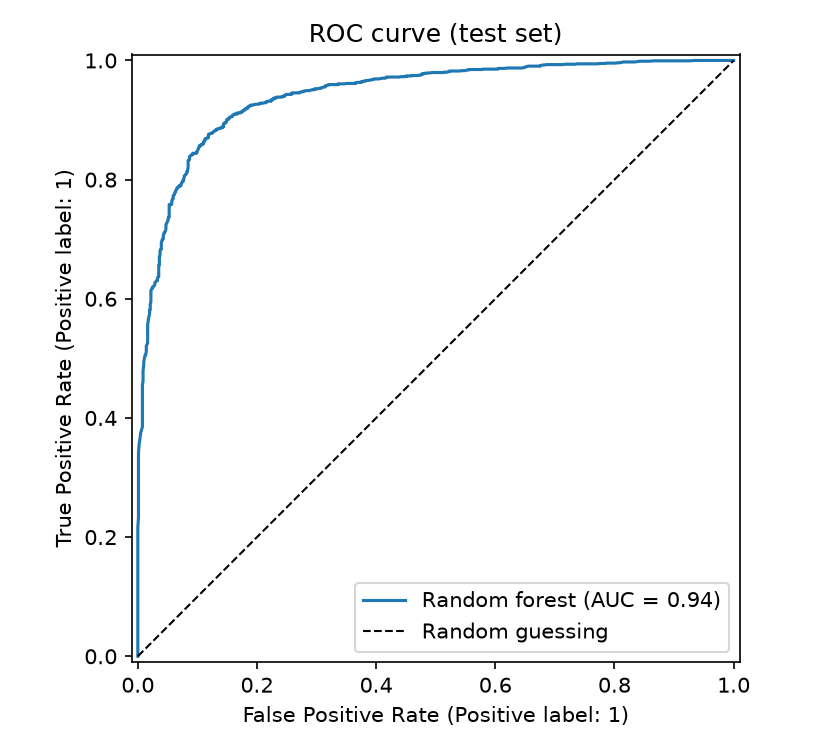
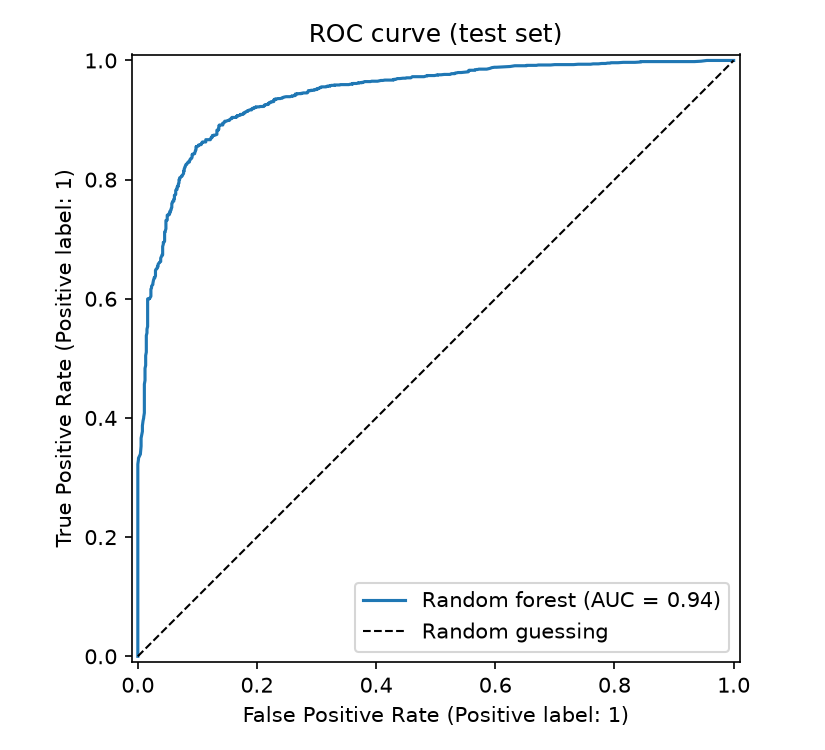
Adopt class_weight=balanced in the main model
On the scaffold split, class_weight=balanced lifts inactive recall from
62.4% to 72.6% and balanced accuracy from 75.7% to 79.0%, costing 3.7
points of active recall. ROC-AUC is unchanged (0.868 vs 0.866), so the
gain comes from a better decision threshold, not better ranking.

Applied to the main random-split model: inactive recall 80.8% -> 84.6%,
active recall 92.5% -> 89.9%, accuracy 88.2% -> 88.0%, ROC-AUC 0.943 ->
0.941. Figures and drug predictions regenerated; all 9 drug calls still
correct.

diff --git a/scripts/experiment_class_weight.py b/scripts/experiment_class_weight.py
@@ -1,0 +1,111 @@
+"""Experiment: does class_weight="balanced" fix the weak inactive recall?
+
+The scaffold-split model catches only ~62% of inactive molecules, because
+it saw far more actives during training. class_weight="balanced" makes
+each inactive count proportionally more when fitting, which should trade
+some active recall for inactive recall.
+
+Judged on the scaffold-split test set, the honest one: both models use
+the identical split saved by scripts/experiment_scaffold_split.py.
+
+Reads   data/egfr_fingerprints.npz, data/egfr_scaffold_split.csv
+        models/experiments/scaffold_split.joblib   (unweighted, for "before")
+Writes  models/experiments/scaffold_balanced.joblib
+        data/class_weight_comparison.csv
+
+Run from the project folder with:
+    uv run python scripts/experiment_class_weight.py
+"""
+
+from pathlib import Path
+
+import joblib
+import numpy as np
+import pandas as pd
+from sklearn.ensemble import RandomForestClassifier
+from sklearn.metrics import (
+    accuracy_score,
+    balanced_accuracy_score,
+    confusion_matrix,
+    recall_score,
+    roc_auc_score,
+)
+
+ROOT = Path(__file__).resolve().parent.parent
+FINGERPRINTS = ROOT / "data" / "egfr_fingerprints.npz"
+SCAFFOLD_SPLIT = ROOT / "data" / "egfr_scaffold_split.csv"
+PLAIN_MODEL = ROOT / "models" / "experiments" / "scaffold_split.joblib"
+BALANCED_MODEL = ROOT / "models" / "experiments" / "scaffold_balanced.joblib"
+OUTPUT = ROOT / "data" / "class_weight_comparison.csv"
+
+SEED, N_TREES = 42, 500
+
+
+def score(model, X, y) -> dict[str, float]:
+    predicted = model.predict(X)
+    return {
+        "accuracy": accuracy_score(y, predicted),
+        "roc_auc": roc_auc_score(y, model.predict_proba(X)[:, 1]),
+        "recall_active": recall_score(y, predicted, pos_label=1),
+        "recall_inactive": recall_score(y, predicted, pos_label=0),
+        # Mean of the two recalls: the fair summary when classes are uneven.
+        "balanced_accuracy": balanced_accuracy_score(y, predicted),
+    }
+
+
+def main() -> None:
+    data = np.load(FINGERPRINTS, allow_pickle=True)
+    X, y = data["X"], data["y"]
+    ids = pd.Series(data["molecule_chembl_id"])
+
+    split = pd.read_csv(SCAFFOLD_SPLIT).set_index("molecule_chembl_id")["set"]
+    assigned = ids.map(split).to_numpy()
+    train_mask, test_mask = assigned == "train", assigned == "test"
+    print(
+        f"Scaffold split: {train_mask.sum()} train "
+        f"({y[train_mask].mean():.1%} active), {test_mask.sum()} test "
+        f"({y[test_mask].mean():.1%} active)\n"
+    )
+
+    balanced = RandomForestClassifier(
+        n_estimators=N_TREES,
+        n_jobs=-1,
+        random_state=SEED,
+        class_weight="balanced",
+    )
+    balanced.fit(X[train_mask], y[train_mask])
+    joblib.dump(balanced, BALANCED_MODEL, compress=3)
+    print(f"Saved balanced model to {BALANCED_MODEL}\n")
+
+    models = {
+        "unweighted (before)": joblib.load(PLAIN_MODEL),
+        "balanced (after)": balanced,
+    }
+    results = pd.DataFrame(
+        {name: score(m, X[test_mask], y[test_mask]) for name, m in models.items()}
+    ).T
+    results.to_csv(OUTPUT)
+
+    shown = results.copy()
+    for column in shown.columns.drop("roc_auc"):
+        shown[column] = (shown[column] * 100).round(1).astype(str) + "%"
+    shown["roc_auc"] = results["roc_auc"].round(3)
+    print(shown.to_string())
+
+    print("\nConfusion matrices (rows = truth, columns = prediction):")
+    for name, model in models.items():
+        matrix = confusion_matrix(y[test_mask], model.predict(X[test_mask]))
+        print(f"\n{name}")
+        print(
+            pd.DataFrame(
+                matrix,
+                index=["inactive", "active"],
+                columns=["inactive", "active"],
+            ).to_string()
+        )
+
+    print(f"\nSaved to {OUTPUT}")
+
+
+if __name__ == "__main__":
+    main()

diff --git a/scripts/train_model.py b/scripts/train_model.py
@@ -49,8 +49,14 @@ def main() -> None:
     ).to_csv(SPLIT_OUTPUT, index=False)
 
     # 2. Train the random forest on the training set only.
+    # class_weight="balanced" makes each inactive molecule count more during
+    # fitting, since actives outnumber them. On the scaffold split this lifted
+    # inactive recall from 62.4% to 72.6% (see experiment_class_weight.py).
     model = RandomForestClassifier(
-        n_estimators=N_TREES, n_jobs=-1, random_state=SEED
+        n_estimators=N_TREES,
+        n_jobs=-1,
+        random_state=SEED,
+        class_weight="balanced",
     )
     model.fit(X_train, y_train)
 
